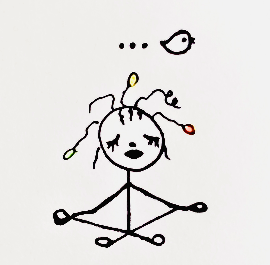
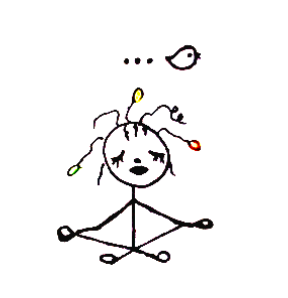
blog second commit with more updates on styles

diff --git a/index.html b/index.html
@@ -12,7 +12,7 @@
       
       <Header>
         <Nav>
-          <UL class="navbar header">
+          <UL class="navbarheader">
           <li> <a href="index.html">JoJo</a></li>
           <li> <a href="blog/identity-values.html"> Values</a></li>
           <li> <a href="blog/learning-plan.html">Learning Plan</a> </li>
@@ -20,50 +20,49 @@
           </UL>
         </Nav>
 
-        <Section>  <h1>Kia Ora! I am JoJo </h1>
-          <p>
+        <Section>  <h1 align="center" class="kiaora">Kia Ora! I am JoJo </h1>
+          <p align="center" class="handshake">
           (Insert Us Shaking Shands In Your Head)
         </p>
         </Section>
         </Header>
   
-        <section padding-top="-50px"> <img src="Media/avatarwithreflection.png" Alt="jojo" class="avatar">
+        <section padding-top="-50px"> <img src="Media/avatar-square.png" Alt="jojo" class="center-align">
         </section>
   
-      <Section Class="My-Journey">
-        <h1> ----- My Journey ---- </h1>
+    <Section>
+        <h1 align="center" class="myjourney"> _____ My Journey _____</h1>
         </Section>
 
-      <Section Class="timeline">
-        <UL class="UL-timeline">
-          <LI>
-            <img src="Media/dev-logo.png" alt="DEV Logo" width=250px height=auto>
-          </LI>
+      
+    <Section class="box1and2">
+      
+      <div class="box1">
+        <img src="Media/dev-logo.png" alt="DEV Logo" width=250px height=auto></div>
 
-          <LI>
-            <h2>Present: Student</h2>
-            <p> I am Jojo, 35 year old, a mother to a 2 year old daughter, from Wellington</p>
+      <div class="box2">
+        <h2>Present: Student</h2>
+        <p> I am Jojo, 35 year old, a mother to a 2 year old daughter, from Wellington</p>
 
-            <p>I was in the banking industry for more than 8 years. I have a strong passion for lending and love helping people get into their first home or looking at purchasing their first investment property
-              </p>
-              
-            <p>Last month in August 2021, I just resigned my corporate job and joined a coding bootcamp at Dev Academy.Coding was always something I wanted to learn but there was never enough time, motivation or resources. So when the opportunity presented itself, I took it with both hands </p>
-              
-              <p>I have ideas around developing lending apps and platforms for the banking industry, which can make it easier for lenders to assess credit applications, while meeting compliance and credit policy requirements. I look forward to working with my "coding friends", learning and growing. I hope to find a job as a junior developer when I complete the course </p>
-          </LI>
+        <p>I was in the banking industry for more than 8 years. I have a strong passion for lending and love helping people get into their first home or looking at purchasing their first investment property
+          </p>
+          
+        <p>Last month in August 2021, I just resigned my corporate job and joined a coding bootcamp at Dev Academy.Coding was always something I wanted to learn but there was never enough time, motivation or resources. So when the opportunity presented itself, I took it with both hands </p>
+          
+          <p>I have ideas around developing lending apps and platforms for the banking industry, which can make it easier for lenders to assess credit applications, while meeting compliance and credit policy requirements. I look forward to working with my "coding friends", learning and growing. I hope to find a job as a junior developer when I complete the course </p></div>
+    </Section>
+        
+    <section class="box3and4">
+            
+      <div><img src="Media/banks-logo.png" alt="banks-logo" width=250px height=auto>
+      </div>
 
-          <li>
-            <img src="Media/banks-logo.png" alt="banks-logo" width=250px height=auto>
-          </li>
-
-          <li>
-            <h2>Before August 2021: Banking Specialist</h2>
+      <div class="box4">
+      <h2>Before August 2021: Banking Specialist</h2>
             I was a banking consultant specialised in credit and lending for different banks i.e HSBC and Westpac.
-            <br>Check out my <a href="https://www.linkedin.com/in/jo-sexton-9b347749"> LinkedIn</a> (feel free to add me as a connection).
-          </li>
-        </UL>
-      </Section>
-
+            <br>Check out my <a href="https://www.linkedin.com/in/jo-sexton-9b347749"> LinkedIn</a> (feel free to add me as a connection).</div>
+             </section>
+    
     </BODY>
     
   

diff --git a/Styles/main.css b/Styles/main.css
@@ -1,25 +1,33 @@
 header{
     Background-color:#fbfaf5;
-    padding: 30px 50px 50px 30px;
-    font-family: Helvetica Neue, sans-serif;
-}
-body{ font-family:Helvetica Neue, san-seriv;}
+    padding: 20px 50px 100px 50px;
+    font-family: Helvetica Neue, sans-serif;}
+
+body{ font-family:Helvetica Neue, sans-serif;}
+
+nav{display: flex;align-items: center; justify-content: space-around;font-weight:500; }
+
+h1{font-size: 35px; font-weight:500}
+h2{font-size: 25px; font-weight:500}
 
 
+p{font-family:Helvetica; line-height:2rem;}
 
-ul{
-    margin: 0; 
-    padding-left: 0px;
-    padding-bottom: 30px;
-    list-style-type: none;
-}
+p.handshake{margin-top:-20px;}
+h1.kiaora {margin-top:50px;}
+ul.navbarheader{ margin: 0; padding-left: 0px; padding-bottom: 30px; list-style-type: none;}
+ul.navbarheader Li{display: inline-block; padding-left:0px; padding-right: 30px;}
 
-Li{display: inline-block;
-padding-left:0px;
-padding-right: 30px;}
+img.center-align {display: block; margin-left:auto; margin-right:auto; margin-bottom:-20px; margin-top:-100px; width:50%; width: 200px; height:auto;}
 
+a {position: relative; text-decoration:none; color:black;}
+a:after{content:""; position: absolute; background-color:#dbc035; height:3px;width:0;left:0;bottom:-10px; transition:0.1s }
+a:hover:after {width:100%;}
 
-.My-Journey{)
-}
+section.box1and2 {display:flex;width:100%;margin:2px;border-top:1px solid lightgray;padding-top:20px;}
 
-.timeline{}
+div.box2 {border-left:1px solid lightgray;padding-left:20px;}
+
+section.box3and4 {display:flex;width:100%;margin:2px;border-top:1px solid lightgray;padding-top:20px; }
+
+div.box4 {border-left:1px solid lightgray;padding-left:20px}

diff --git a/blog/Contact.html b/blog/Contact.html
@@ -12,7 +12,7 @@
       
       <Header>
         <Nav>
-          <UL class="navbar header">
+          <UL class="navbarheader">
           <li> <a href="../index.html">JoJo</a></li>
           <li> <a href="../blog/identity-values.html"> Values</a></li>
           <li> <a href="../blog/learning-plan.html">Learning Plan</a> </li>
@@ -22,7 +22,7 @@
 
         <Section>  <h1>Feel free to add me as a connection</h1>
             <p> Until then, kia kaha and stay safe 🌱 </p>
-          <ul class="contact"> 
+          <ul> 
             <li>Slack: jojo_sexton_hihi_21 </li>
 
             <li>Github: jojo-sexton</li>

diff --git a/blog/identity-values.html b/blog/identity-values.html
@@ -12,7 +12,7 @@
       
       <Header>
         <Nav>
-          <UL class="navbar header">
+          <UL class="navbarheader">
           <li> <a href="../index.html">JoJo</a></li>
           <li> <a href="../blog/identity-values.html"> Values</a></li>
           <li> <a href="../blog/learning-plan.html">Learning Plan</a> </li>

diff --git a/blog/learning-plan.html b/blog/learning-plan.html
@@ -13,7 +13,7 @@
       
       <Header>
         <Nav>
-          <UL class="navbar header">
+          <UL class="navbarheader">
           <li> <a href="../index.html">JoJo</a></li>
           <li> <a href="../blog/identity-values.html"> Values</a></li>
           <li> <a href="../blog/learning-plan.html">Learning Plan</a> </li>
